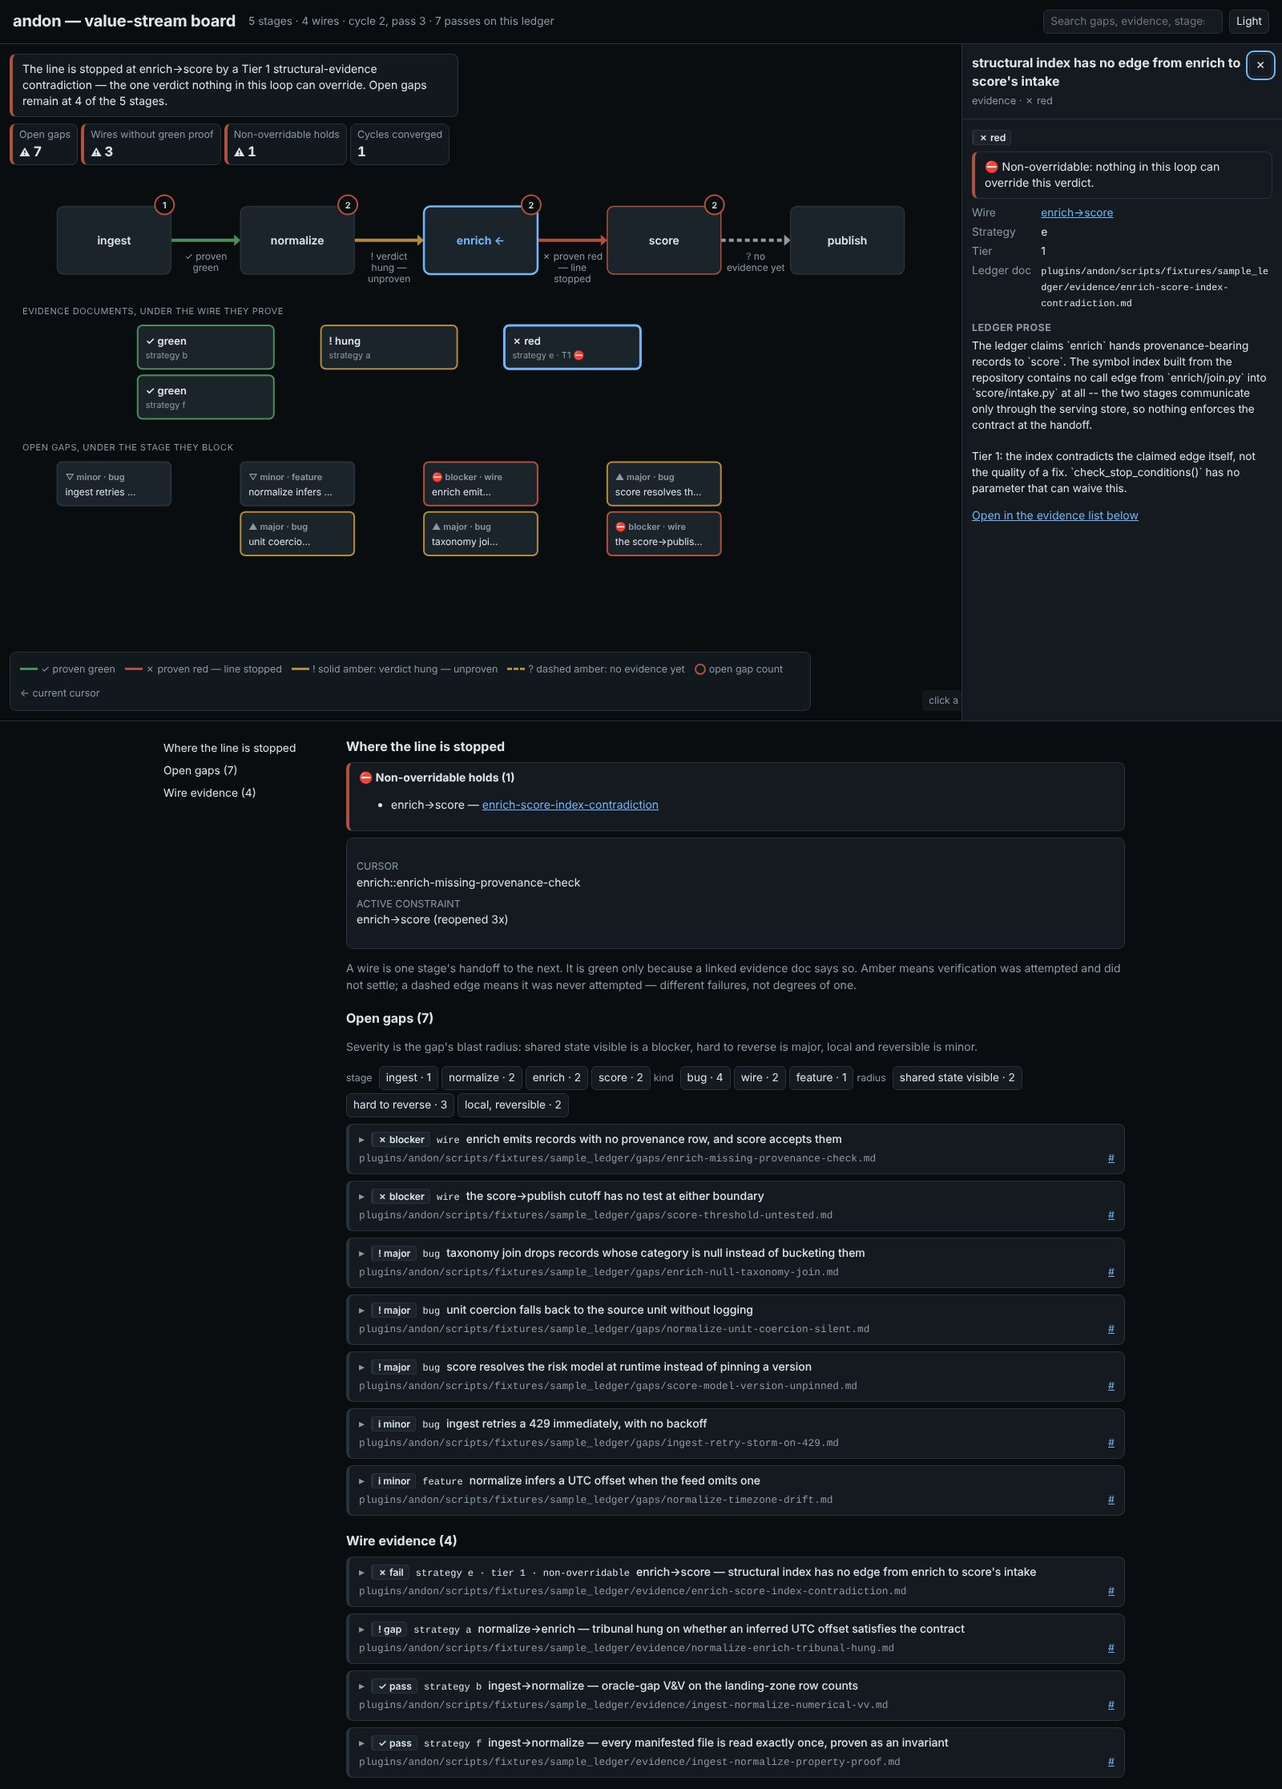
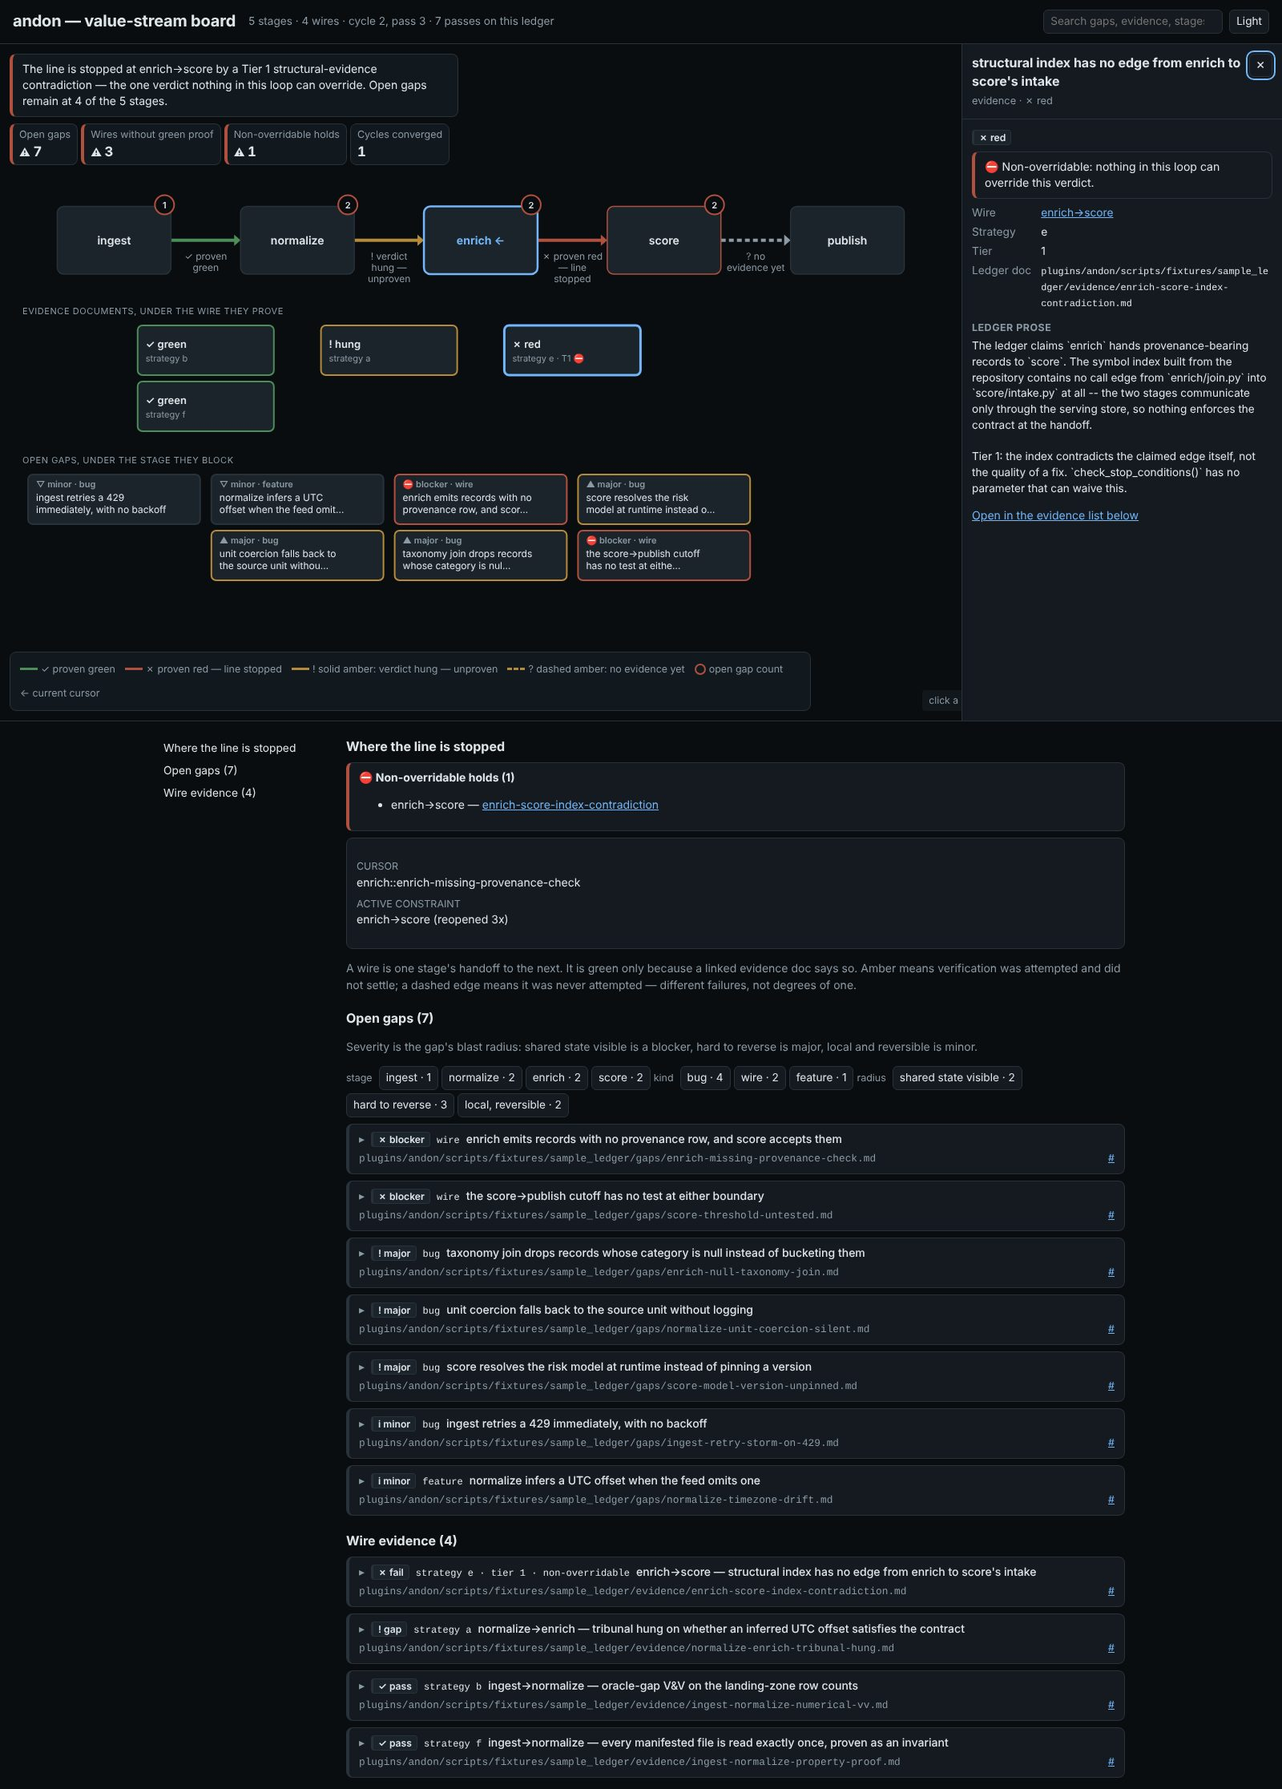
wip(viewers): figure-first (R9) migration in progress
Claude-Session: https://claude.ai/code/session_01T7ct7CVxAQqp3tqKbKtmYX

Changed region(s): [[0.0, 0.1855, 0.5938, 0.3401], [0.375, 0.1855, 0.5, 0.2164], [0.25, 0.1855, 0.3438, 0.2164]]

diff --git a/plugins/arbeitsplan/assets/run-viewer.html b/plugins/arbeitsplan/assets/run-viewer.html
@@ -10,10 +10,55 @@
 <!--__DESIGN_TOKENS__-->
 <!--__REPORT_KIT__-->
 <style>
-  .legend dl { display: grid; grid-template-columns: auto 1fr; gap: var(--space-1) var(--space-3); margin: 0; font-size: 0.85rem; }
-  .legend dt { font-weight: 600; color: var(--rk-text); white-space: nowrap; }
-  .legend dd { margin: 0; }
+  .rk-hud { max-width: min(560px, calc(100% - 2 * var(--space-3))); }
+  .rk-hud .verdict { font-size: 0.86rem; }
+  .legend.rk-legend-float { font-size: 0.78rem; padding: var(--space-2) var(--space-3); max-width: min(760px, calc(100% - 2 * var(--space-3))); }
+  .legend.rk-legend-float p { margin: 0 0 var(--space-1); }
+  .legend.rk-legend-float p:last-child { margin: 0; }
+  .legend strong { color: var(--rk-text); }
+  .rk-hint { bottom: auto; top: var(--space-3); }
+  .rk-stage.rk-drawer-open .rk-hint { right: calc(min(400px, 42vw) + var(--space-3)); }
+  .howto { display: grid; grid-template-columns: auto 1fr; gap: var(--space-1) var(--space-3); margin: 0; font-size: 0.86rem; }
+  .howto dt { font-weight: 600; color: var(--rk-text); white-space: nowrap; }
+  .howto dd { margin: 0; }
   .maths { font-family: var(--font-mono); font-size: 0.86rem; }
+  /* the matrix: every colour is a --rk-* role, so the light theme re-points it without a redraw */
+  .mx text { fill: var(--rk-text); }
+  .mx .muted { fill: var(--rk-muted); }
+  .mx .colhead { font-size: 12px; font-weight: 700; fill: var(--rk-muted); }
+  .mx .rowid { font-size: 13px; font-weight: 700; }
+  .mx .rowangle { font-size: 11.5px; fill: var(--rk-muted); }
+  .mx .word { font-size: 13px; font-weight: 700; }
+  .mx .ev { font-size: 11.5px; fill: var(--rk-muted); }
+  .mx .rowbg { fill: var(--rk-panel); stroke: var(--rk-border); stroke-width: 1; }
+  .mx .row { cursor: pointer; }
+  .mx .row:hover .rowbg { stroke: var(--rk-muted); }
+  .mx .row.landed .rowbg { stroke: var(--rk-ok); stroke-width: 3; }
+  .mx .row.sel .rowbg { stroke: var(--rk-focus); stroke-width: 3; }
+  .mx .row:focus { outline: none; }
+  .mx .row:focus-visible .rowbg { stroke: var(--rk-focus); stroke-width: 3; }
+  .mx .cell { stroke-width: 1; }
+  .mx .cell.t-ok { fill: color-mix(in srgb, var(--rk-ok) 16%, var(--rk-panel)); stroke: var(--rk-ok); }
+  .mx .cell.t-bad { fill: color-mix(in srgb, var(--rk-bad) 18%, var(--rk-panel)); stroke: var(--rk-bad); }
+  .mx .cell.t-warn { fill: color-mix(in srgb, var(--rk-warn) 18%, var(--rk-panel)); stroke: var(--rk-warn); }
+  .mx .cell.t-flat { fill: var(--rk-panel-2); stroke: var(--rk-border); stroke-dasharray: 4 3; }
+  .mx .g-ok { fill: var(--rk-ok); }
+  .mx .g-bad { fill: var(--rk-bad); }
+  .mx .g-warn { fill: var(--rk-warn); }
+  .mx .g-flat { fill: var(--rk-flat); }
+  .mx .landedtag { font-size: 11.5px; font-weight: 700; fill: var(--rk-ok); }
+  .crit { margin: 0 0 var(--space-2); }
+  .crit .w { font-weight: 700; }
+  .crit .w.ok { color: var(--rk-ok); }
+  .crit .w.bad { color: var(--rk-bad); }
+  .crit .w.warn { color: var(--rk-warn); }
+  .crit .w.flat { color: var(--rk-muted); }
+  .crit p { margin: 0; color: var(--rk-muted); overflow-wrap: anywhere; }
+  .rk-drawer-body ul.files { margin: 0; padding-left: var(--space-4); font-family: var(--font-mono); font-size: 0.8rem; overflow-wrap: anywhere; }
+  .rk-drawer-body .oos { color: var(--rk-bad); font-weight: 600; }
+  .rk-drawer-body dl.rows { display: grid; grid-template-columns: auto 1fr; gap: var(--space-1) var(--space-2); margin: 0; }
+  .rk-drawer-body dl.rows dt { color: var(--rk-muted); }
+  .rk-drawer-body dl.rows dd { margin: 0; overflow-wrap: anywhere; font-family: var(--font-mono); font-size: 0.8rem; }
 </style>
 </head>
 <body class="rk">
@@ -27,24 +72,25 @@
     <button id="rk-theme" class="rk-btn" type="button" aria-label="Toggle light or dark theme">Light</button>
   </div>
 </header>
-<main class="rk-wrap">
-  <p class="verdict" id="verdict">Loading the run…</p>
-
-  <div class="legend rk-card rk-muted">
-    <dl>
-      <dt>✓ landed</dt><dd>this candidate's diff was applied to the working tree. Exactly one ever is.</dd>
-      <dt>✓ accepted</dt><dd>met every acceptance criterion, but lost the selection rule.</dd>
-      <dt>✗ rejected</dt><dd>a referee found at least one criterion demonstrably unmet.</dd>
-      <dt>! cannot judge</dt><dd>the referee could not decide from the diff alone. It points at the contract, not the candidate, and is never collapsed into a rejection.</dd>
-      <dt>! different approach</dt><dd>criteria met by a route the statement did not anticipate. Surfaced for a human; it does not land.</dd>
-      <dt>! unrefereed</dt><dd>measured, but no referee record exists. Never read as accepted.</dd>
-      <dt>– unmeasured</dt><dd>never fairly tried (no worktree, broken build). <strong>Excluded from the breaker's denominator</strong>, never counted as a rejection.</dd>
-    </dl>
-  </div>
-
-  <div class="rk-layout">
-    <nav id="rk-nav" class="rk-nav" aria-label="Report sections"><p id="rk-found" class="rk-found" role="status" aria-live="polite"></p></nav>
-    <div id="rk-content" tabindex="-1"></div>
+<main>
+  <section class="rk-stage" id="rk-stage" aria-label="Candidates against acceptance criteria: one row per candidate, one cell per criterion, the landed candidate outlined">
+    <div class="rk-hud">
+      <p class="verdict" id="verdict">Loading the run…</p>
+      <dl class="rk-hud-stats"></dl>
+    </div>
+    <div class="rk-figure" id="rk-figure" data-rk-figure></div>
+    <div class="legend rk-legend-float rk-card rk-muted">
+      <p><strong>criterion</strong> ✓ met · ✗ not met · ! cannot judge (the referee recorded nothing for it, or could not decide) · – not measured (the candidate never ran fairly)</p>
+      <p><strong>row</strong> green outline = the landed candidate, the only one ever applied · the other outcomes are defined below the figure</p>
+    </div>
+    <span class="rk-hint">click a candidate for the referee's evidence · hover a cell for its reason</span>
+    <aside class="rk-drawer" id="rk-drawer" hidden aria-label="Details"></aside>
+  </section>
+  <div class="rk-wrap rk-below">
+    <div class="rk-layout">
+      <nav id="rk-nav" class="rk-nav" aria-label="Report sections"><p id="rk-found" class="rk-found" role="status" aria-live="polite"></p></nav>
+      <div id="rk-content" tabindex="-1"></div>
+    </div>
   </div>
 </main>
 <noscript>This report needs JavaScript. Nothing is fetched from the network; all of its data is inside this file.</noscript>
@@ -87,13 +133,24 @@
   const budgetKnown = bu.total != null && bu.used != null;
 
   const content = RK.$("#rk-content");
-  content.append(section("glance", "At a glance", RK.glance({ stats: [
+  const S = RK.stage();
+  S.stats([
     { label: "Candidates", value: String(c.length), note: "over one scope" },
     { label: "Landed", value: String(count("landed")), note: "exactly one ever does", bad: !landed },
     { label: "Rejected", value: String(count("rejected")), note: "a criterion demonstrably unmet" },
     { label: "Unmeasured", value: String(count("unmeasured")), note: "excluded from the breaker" },
     { label: "Dispatches", value: budgetKnown ? bu.used + " / " + bu.total : "unknown", note: "used of budget" },
-  ] })));
+  ]);
+
+  // The legend's long form: what used to sit above the table now sits below the figure.
+  content.append(section("outcomes", "What each outcome means", h("dl", { class: "howto" },
+    h("dt", { text: "✓ landed" }), h("dd", { text: "this candidate's diff was applied to the working tree. Exactly one ever is." }),
+    h("dt", { text: "✓ accepted" }), h("dd", { text: "met every acceptance criterion, but lost the selection rule." }),
+    h("dt", { text: "✗ rejected" }), h("dd", { text: "a referee found at least one criterion demonstrably unmet." }),
+    h("dt", { text: "! cannot judge" }), h("dd", { text: "the referee could not decide from the diff alone. It points at the contract, not the candidate, and is never collapsed into a rejection." }),
+    h("dt", { text: "! different approach" }), h("dd", { text: "criteria met by a route the statement did not anticipate. Surfaced for a human; it does not land." }),
+    h("dt", { text: "! unrefereed" }), h("dd", { text: "measured, but no referee record exists. Never read as accepted." }),
+    h("dt", { text: "– unmeasured" }), h("dd", {}, "never fairly tried (no worktree, broken build). ", h("strong", { text: "Excluded from the breaker's denominator" }), ", never counted as a rejection."))));
 
   // ---- candidates: one finding each; the referee's per-criterion evidence is the drill-down ----
   const SEV = { landed: "pass", accepted: "pass", rejected: "fail", unmeasured: "na", unrefereed: "gap",

diff --git a/plugins/andon/assets/board-viewer.html b/plugins/andon/assets/board-viewer.html
@@ -303,7 +303,7 @@
     const evTop = nodeTop + nodeH + 64;
     // Chips grow with the figure's height (capped), so a tall screen is used, not left empty.
     const room = Hh - evTop - 150 - (maxEvRows ? 54 : 0) - (maxGapRows ? 40 : 0);
-    const chipH = Math.max(48, Math.min(64, room / Math.max(1, maxEvRows + maxGapRows) - 8)), chipGap = 8;
+    const chipH = Math.max(62, Math.min(70, room / Math.max(1, maxEvRows + maxGapRows) - 8)), chipGap = 8;
     const gapTop = evTop + (maxEvRows ? maxEvRows * (chipH + chipGap) + 46 : 0);
     const needH = gapTop + maxGapRows * (chipH + chipGap) + 110;
     const H = Math.max(Hh, needH);
@@ -375,14 +375,14 @@
       hover(g, name, [mine.length + " open gap(s)", (B.stage_docs || {})[name] && (B.stage_docs[name].description || "")].filter(Boolean));
       // gap chips under the stage
       mine.forEach((gp, k) => {
-        const y = gapTop + k * (chipH + chipGap);
+        const y = gapTop + k * (chipH + chipGap), cwid = Math.min(colW - 14, 240), gx = cx(i) - cwid / 2;
         const gg = hit(svg.append("g"), "gap:" + gp.slug, "Open gap " + (gp.title || gp.slug) + ", " + (RADIUS_LABELS[gp.blast_radius] || "radius unrecorded") + ". Show detail.", () => showGap(gp.slug));
-        gg.append("rect").attr("class", "vs-box").attr("x", x).attr("y", y).attr("width", nodeW).attr("height", chipH).attr("rx", 6)
+        gg.append("rect").attr("class", "vs-box").attr("x", gx).attr("y", y).attr("width", cwid).attr("height", chipH).attr("rx", 6)
           .attr("fill", C.panel).attr("stroke", gp.blast_radius === "shared-state-visible" ? C.bad : gp.blast_radius === "hard-to-reverse" ? C.warn : C.border).attr("stroke-width", 2);
-        gg.append("text").attr("x", x + 10).attr("y", y + chipH / 2 - 5).attr("font-size", 11).attr("font-weight", 600).attr("fill", C.muted)
+        gg.append("text").attr("x", gx + 10).attr("y", y + 16).attr("font-size", 11).attr("font-weight", 600).attr("fill", C.muted)
           .text((RADIUS_GLYPH[gp.blast_radius] || "unrated") + " · " + gp.kind);
-        gg.append("text").attr("x", x + 10).attr("y", y + chipH / 2 + 14).attr("font-size", px).attr("fill", C.text)
-          .text(wrapLabel(gp.title || gp.slug, cols(nodeW - 20), 1)[0]);
+        const tl = gg.append("text").attr("font-size", px).attr("fill", C.text);
+        wrapLabel(gp.title || gp.slug, cols(cwid - 20), 2).forEach((ln, q) => tl.append("tspan").attr("x", gx + 10).attr("y", y + 33 + q * 15).text(ln));
         hover(gg, gp.title || gp.slug, [(RADIUS_GLYPH[gp.blast_radius] || "unrated") + " · " + gp.kind, "stage " + name]);
       });
     });

diff --git a/plugins/spur/assets/spur-viewer.html b/plugins/spur/assets/spur-viewer.html
@@ -16,6 +16,7 @@
   .rk-drawer-body dl.defs { display: grid; grid-template-columns: max-content 1fr; gap: var(--space-1) var(--space-3); margin: 0; }
   .rk-drawer-body dl.defs dt { font-weight: 600; white-space: nowrap; }
   .rk-drawer-body dl.defs dd { margin: 0; overflow-wrap: anywhere; }
+  .rk-drawer-body code { overflow-wrap: anywhere; }
   .rk-drawer-body ul.plain { list-style: none; margin: 0; padding: 0; }
   .rk-drawer-body ul.plain li { padding: var(--space-1) 0; border-bottom: 1px solid var(--rk-border); overflow-wrap: anywhere; }
   .rk-drawer-body ul.plain li:last-child { border-bottom: 0; }
@@ -590,9 +591,11 @@
     return false;
   };
   window.addEventListener("hashchange", fromHash);
-  window.addEventListener("load", () => { booted = true; });
-  if (fromHash()) window.scrollTo(0, 0);
-  else {
+  let linked = false;
+  // The browser's own fragment scroll runs after parsing: undo it, the figure is the destination.
+  window.addEventListener("load", () => { booted = true; if (linked) window.scrollTo(0, 0); });
+  linked = fromHash();
+  if (!linked) {
     // The drawer opens on the worst link, or on the overview when nothing is wrong.
     const worst = linkRecords.find((r) => r.input.status === "broken") || linkRecords.find((r) => r.input.status === "unverified");
     if (worst) select("link", worst.domId); else showOverview();

diff --git a/plugins/andon/scripts/test_andon_core.py b/plugins/andon/scripts/test_andon_core.py
@@ -494,5 +494,23 @@ class LibraryFunctionsResolveFromWorktree(unittest.TestCase):
             fx.cleanup()
 
 
+class BoardViewerStageTests(unittest.TestCase):
+    """R9: the rendered board leads with the figure, in the kit's stage skeleton."""
+
+    def test_rendered_board_carries_the_stage_skeleton(self):
+        import build_board_html
+        root = SCRIPTS.parent.parent.parent
+        assets = SCRIPTS.parent / "assets"
+        ledger = "plugins/andon/scripts/fixtures/sample_ledger"
+        board = andon_core.render_board(str(root), ledger)
+        self.assertIsNotNone(board, "the committed sample ledger must render a board")
+        html = build_board_html.render_html(
+            assets / "board-viewer.html", assets / "inline-d3.html", assets / "tokens.css",
+            build_board_html.enrich(board, str(root), ledger))
+        for needle in ('id="rk-stage"', "data-rk-figure", 'id="rk-drawer"', 'class="verdict"'):
+            self.assertIn(needle, html)
+        self.assertNotIn("innerHTML", html)
+
+
 if __name__ == "__main__":
     unittest.main(verbosity=2)

diff --git a/plugins/spur/scripts/build_spur_html.py b/plugins/spur/scripts/build_spur_html.py
@@ -70,6 +70,9 @@ def selftest() -> int:
     ok("no network fetches", 'src="http' not in html and 'href="http' not in html)
     ok("a static verdict element exists", 'class="verdict"' in html)
     ok("a static legend exists", 'class="legend ' in html or 'class="legend"' in html)
+    ok("the figure-first stage skeleton is present (R9)",
+       'id="rk-stage"' in html and "data-rk-figure" in html and 'id="rk-drawer"' in html,
+       "a viewer without the stage leads with prose, not its figure")
     ok("no innerHTML assignment", "innerHTML" not in html and "insertAdjacentHTML" not in html)
     statuses = {i["status"] for s in demo["steps"] for i in s["inputs"]}
     ok("demo shows a BROKEN link", "broken" in statuses,

diff --git a/plugins/andon/README.md b/plugins/andon/README.md
@@ -338,15 +338,17 @@ always let any other out-of-repo write through.
 the chat as one self-contained HTML file, written to `<ledger_dir>/ANDON_BOARD.html`.
 
 The report answers one question -- *where is the line stopped, and why?* -- and
-states its answer in a sentence before any chart appears. Below it, a left-to-right
-value-stream diagram carries a labelled edge per handoff: green when linked evidence
-says green, amber when verification was attempted and hung, and **dashed when no
-evidence doc exists at all**. Those last two are different failures, not degrees of
-one, so the edge label spells the state out in words rather than leaving it to
-colour. Stage nodes carry a red open-gap badge and open a sidebar listing that
-stage's gaps with kind and blast-radius badges.
+states its answer in a sentence floating over the figure. The figure is the value stream,
+filling the first screen: a left-to-right diagram with a labelled edge per handoff -- green
+when linked evidence says green, amber when verification was attempted and hung, and
+**dashed when no evidence doc exists at all**. Those last two are different failures, not
+degrees of one, so the edge label spells the state out in words rather than leaving it to
+colour. Evidence documents hang under the wire they prove and open gaps under the stage they
+block. Clicking a stage, a wire, an evidence chip or a gap opens its detail -- description,
+ledger prose, verdict, tier, blast radius, proposal -- in a drawer beside the figure, and
+hovering shows a summary. The findings lists and the full tables follow below the figure.
 
-![andon board for a stopped five-stage feature pipeline: a verdict panel reading "The line is stopped at enrich->score by a Tier 1 structural-evidence contradiction — the one verdict nothing in this loop can override. 3 of 4 handoffs carry no green proof, and 7 gaps are open across 4 of 5 stages"; a red non-overridable-hold banner naming enrich->score; four tiles of which three are outlined in red — 7 open gaps, 3 handoffs without green proof, 1 non-overridable hold — beside an un-outlined 1 cycle converged; and a value-stream diagram of ingest, normalize, enrich, score and publish whose four edges are each labelled in words, ingest->normalize proven green, normalize->enrich verdict hung, enrich->score proven red, score->publish dashed with no evidence yet, with red gap-count badges on the first four stages and none on publish](assets/board-viewer-screenshot.jpg)
+![andon board for a stopped five-stage feature pipeline filling the screen: a verdict reading that the line is stopped at enrich->score by a Tier 1 structural-evidence contradiction, four numbers (7 open gaps, 3 wires without green proof, 1 non-overridable hold, 1 cycle converged), the stages ingest, normalize, enrich, score and publish joined by wires labelled in words (green, hung, red, no evidence yet), evidence chips under each wire and open-gap chips under each stage, and a side drawer showing the red Tier 1 evidence document that stops the line]](assets/board-viewer-screenshot.jpg)
 
 That image is reproducible rather than a one-off capture — the ledger it shows is
 committed at `scripts/fixtures/sample_ledger/`, a real OKF directory tree
@@ -358,7 +360,7 @@ structural index at Tier 1, and one never verified at all. To rebuild it:
 
 ```bash
 python3 plugins/andon/scripts/build_board_html.py \
-    plugins/andon/scripts/fixtures sample_ledger \
+    . plugins/andon/scripts/fixtures/sample_ledger \
     --template plugins/andon/assets/board-viewer.html \
     --d3 plugins/andon/assets/inline-d3.html \
     --tokens plugins/andon/assets/tokens.css \

diff --git a/plugins/spur/README.md b/plugins/spur/README.md
@@ -120,10 +120,11 @@ maps to W3C PROV-JSON, is in [`references/trace-format.md`](references/trace-for
 
 ## The report page
 
-![spur's execution-trace page for the fixture pipeline's tampered run: a red-framed verdict that work/records.csv changed after s3 wrote it and before s5 read it, tiles counting 1 broken link and 1 unverified input, the three output-to-input links with the broken one marked ✗, and six step cards with their reads, writes and open call trees, the untraced sh step drawn dashed](assets/spur-viewer-screenshot.jpg)
+![spur's execution-trace page for the fixture pipeline's tampered run: the step chain fills the screen, six step boxes with the sources above and the files each step wrote below, joined by lines marked ✓ verified, ✗ broken, ! unverified or – source, a red-framed verdict and five counts floating over it, and the broken link's hashes open in the side panel](assets/spur-viewer-screenshot.jpg)
 
-One static page per run: verdict, the links between steps, and one card per step with
-its reads, writes and call tree. It loads nothing from the network
+One static page per run: the step chain is the figure, with the verdict over it. Click a
+link for its hashes, producer and consumer, or a step for its calls and file I/O; the
+list of links and one card per step follow below as the reference. It loads nothing from the network
 (`default-src 'none'`). The screenshot is rendered from the committed demo, a real run:
 
 ```bash
